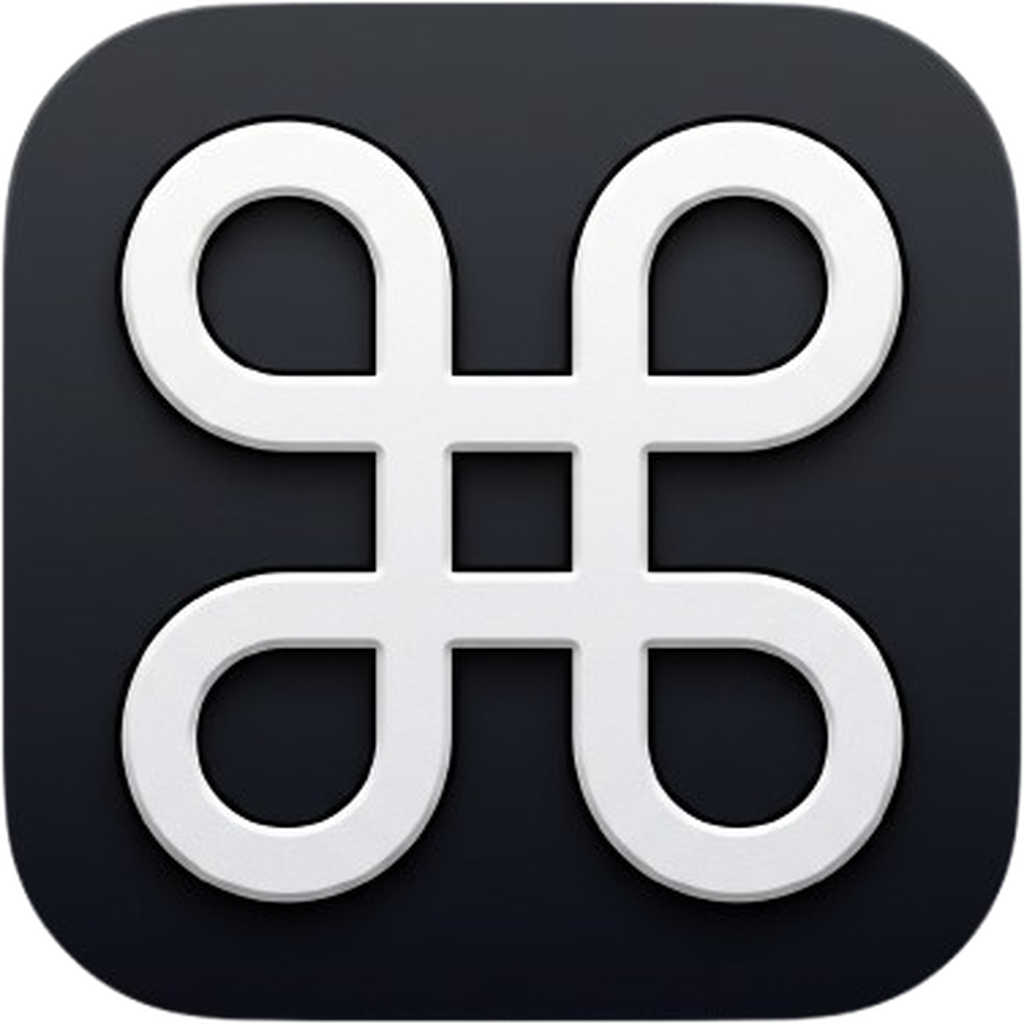
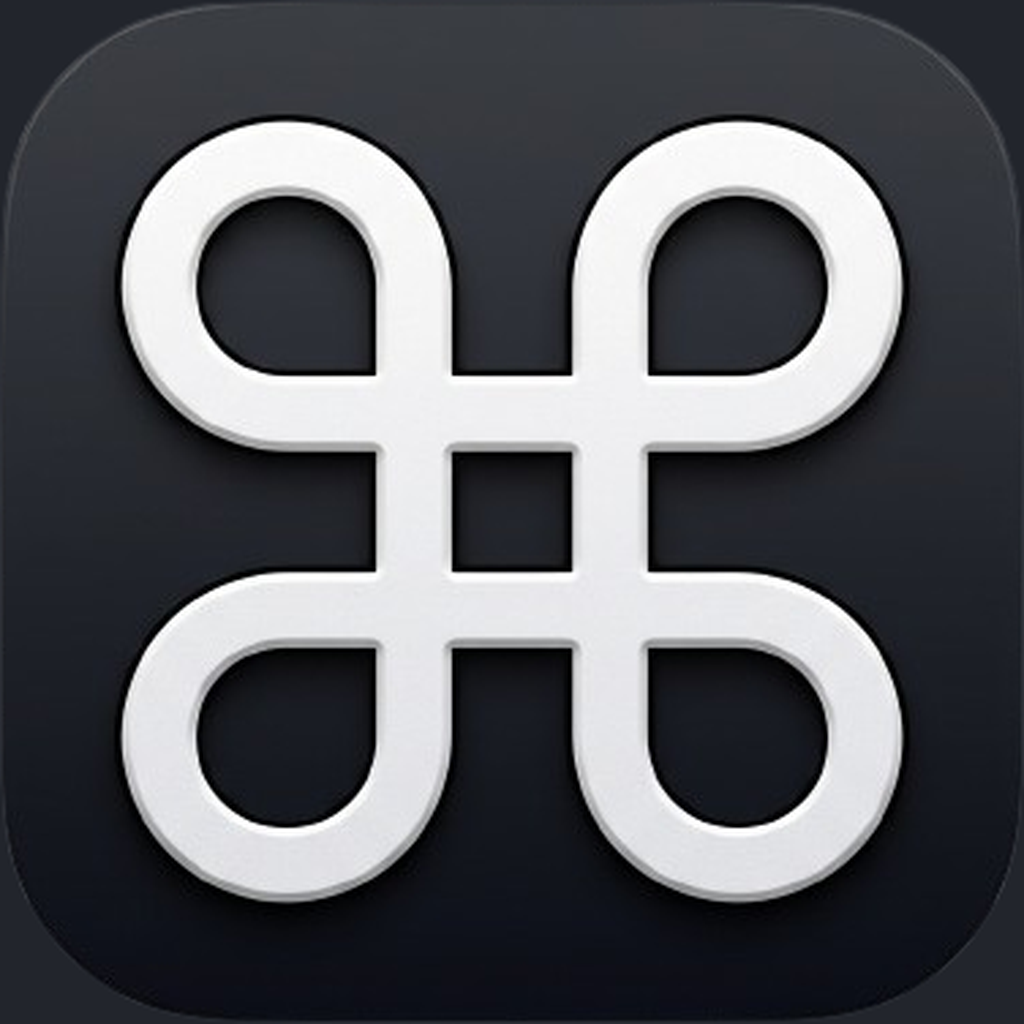
Minor Fix

Changed region(s): [[0.0, 0.0, 1.0, 1.0]]

diff --git a/app/manifest.ts b/app/manifest.ts
@@ -14,14 +14,14 @@ export default function manifest(): MetadataRoute.Manifest {
     categories: ["productivity", "developer", "business"],
     icons: [
       {
-        src: "/logo-light.png",
-        sizes: "500x500",
+        src: "/icon.png",
+        sizes: "1024x1024",
         type: "image/png",
         purpose: "any",
       },
       {
-        src: "/logo-light.png",
-        sizes: "500x500",
+        src: "/icon.png",
+        sizes: "1024x1024",
         type: "image/png",
         purpose: "maskable",
       },
